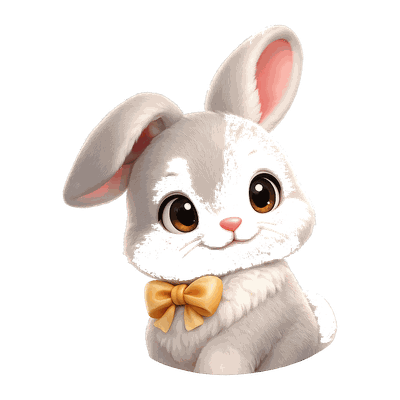
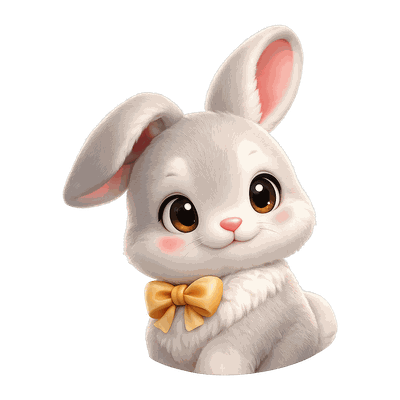
토끼 얼굴에 구멍이 뚫려 있었다 — 8/04부터 지금까지
`public/img/rabbit.png`의 알파가 파먹혀 있었다. 얼굴·볼·가슴의 흰 털 자리가 **투명**이다.
원본 대비 구멍이 42.0% → 54.5%(+12.5%p), 반투명도 0.9% → 3.8%.

원인은 배경 제거기의 `isbg` 판정이다 — `min>225 AND (max-min)<8`, 즉 **거의 흰 무채색**을 배경으로 본다.
그런데 이 토끼는 털이 진짜 회백색 무채색이다. 스크립트 주석이 경고하던 바로 그 경우인데
(양털·소 흰색은 따뜻한 색조라 살아남는다) 토끼는 그 예외에 걸리지 않았다.

**왜 3주 동안 아무도 못 봤나** — 게임의 아바타 배경이 흰 원이라 흰 구멍이 흰 바탕에 얹혀 안 보였다.
어두운 데 얹어야 드러난다. 알파가 있던 8/04 다섯 중 파먹힌 건 토끼 하나뿐이다
(tiger +0.6%p · bear -0.0%p · fox +0.7%p · dokkaebi +1.2%p — 전부 정상).

고친 법: 원본에서 `--bg none`으로 다시 뽑았다(구멍 42.1% · 반투명 1.2% — 원본과 일치).

**그리고 이 자국을 내가 무늬로 오독했다.** 어제 상점 프롬프트를 쓰면서 토끼를
'검은 마스크를 쓴 흑백 토끼'라고 적었는데, 그 검은 부분이 바로 이 구멍이었다.
그대로 뽑았으면 **버그를 아트에 영구히 새길 뻔했다.** 토끼 설명을 실제 그림대로 고쳤고
(회백색 털 + 금색 나비넥타이), 네거티브에 `black face markings, dark mask` 를 넣었다.

diff --git a/scripts/gen-expression-prompts.py b/scripts/gen-expression-prompts.py
@@ -72,14 +72,18 @@ C = [
  dict(id='tiger', kr='호랑이', full=False,
       desc='a playful young Korean tiger cub, warm orange fur with soft black stripes, cream muzzle and belly, round cheeks, one ear flicked back, tiny fangs'),
  dict(id='rabbit', kr='토끼', full=False,
-      # ⚠ 실제 그림은 '흰 토끼'가 아니다 — 얼굴 절반이 검은 무늬이고 노란 나비넥타이를 맸다.
-      desc='a chubby rabbit with a bold BLACK-AND-WHITE patched coat — a large black mask marking '
-           'covering the eyes and most of the face, a white muzzle and a white chest, a black patch on '
-           'the back — tall ears with pink inner ears (one upright, one folded), and a GOLDEN-YELLOW '
+      # ⚠ 2026-08-20: 한때 '검은 마스크를 쓴 토끼'로 잘못 적었다. 그건 무늬가 아니라
+      #    `public/img/rabbit.png`의 **알파가 파먹힌 자국**이었다(어두운 배경에 얹어 보다 오독).
+      #    흰·회색 중성색 털을 배경 제거기가 배경으로 보고 얼굴에 구멍을 뚫어 놨던 것이다.
+      #    같은 날 원본에서 `--bg none`으로 다시 뽑아 고쳤다. 실제 토끼는 아래가 맞다.
+      desc='a chubby soft grey-and-white rabbit, pale dove-grey fur on the head, back and ears with a '
+           'creamy white muzzle, cheeks and chest, tall ears with soft pink inner ears (one upright and '
+           'one gently folded over), a small pink nose, rosy blush cheeks, and a GOLDEN-YELLOW SATIN '
            'BOW TIE at the neck',
-      neg='plain all-white rabbit, no bow tie, both ears upright',
-      hint='The black face mask and the golden bow tie are its identity — never drop them. '
-           'The long upright ear carries the emotion: perked up and quivering when excited, drooping when dejected.'),
+      neg='black face markings, black patches, dark mask around the eyes, missing bow tie, '
+          'pure white rabbit with no grey, both ears fully upright',
+      hint='The golden bow tie is its one accent of colour — never drop it. The long upright ear carries '
+           'the emotion: perked up and quivering when excited, drooping when dejected.'),
  dict(id='bear', kr='곰', full=False,
       # ⚠ 실제 그림엔 소품이 하나도 없다. 스카프를 적으면 없던 스카프가 생긴다.
       desc='a chubby honey-brown bear cub with soft fuzzy fur, small round ears, a broad soft muzzle, '

diff --git a/outputs/production/2026-08-20_dice-alley_shop13-prompts.md b/outputs/production/2026-08-20_dice-alley_shop13-prompts.md
@@ -70,8 +70,8 @@ big glossy expressive eyes with two catchlights, warm soft global illumination w
 the upper left, subtle rim light, no hard outlines, clean readable silhouette at small sizes,
 front three-quarter view, transparent background, high resolution.
 
-The character: a chubby rabbit with a bold BLACK-AND-WHITE patched coat — a large black mask marking covering the eyes and most of the face, a white muzzle and a white chest, a black patch on the back — tall ears with pink inner ears (one upright, one folded), and a GOLDEN-YELLOW BOW TIE at the neck.
-The black face mask and the golden bow tie are its identity — never drop them. The long upright ear carries the emotion: perked up and quivering when excited, drooping when dejected.
+The character: a chubby soft grey-and-white rabbit, pale dove-grey fur on the head, back and ears with a creamy white muzzle, cheeks and chest, tall ears with soft pink inner ears (one upright and one gently folded over), a small pink nose, rosy blush cheeks, and a GOLDEN-YELLOW SATIN BOW TIE at the neck.
+The golden bow tie is its one accent of colour — never drop it. The long upright ear carries the emotion: perked up and quivering when excited, drooping when dejected.
 
 Expression: both arms raised high cheering, a huge joyful open smile, sparkling star-shaped eyes.
 
@@ -79,7 +79,7 @@ Framing: bust framing, head and upper body, centered, the same crop as the refer
 
 Do NOT change the species, horn count, hair, costume, accessories or palette.
 Do NOT use: pixel art, hard black outline, cel shading, flat vector, sticker cutout edge, text,
-watermark, busy background, more than one character, photorealistic human, plain all-white rabbit, no bow tie, both ears upright.
+watermark, busy background, more than one character, photorealistic human, black face markings, black patches, dark mask around the eyes, missing bow tie, pure white rabbit with no grey, both ears fully upright.
 ```
 
 ## `bear_cheer.png` — 곰
@@ -438,8 +438,8 @@ big glossy expressive eyes with two catchlights, warm soft global illumination w
 the upper left, subtle rim light, no hard outlines, clean readable silhouette at small sizes,
 front three-quarter view, transparent background, high resolution.
 
-The character: a chubby rabbit with a bold BLACK-AND-WHITE patched coat — a large black mask marking covering the eyes and most of the face, a white muzzle and a white chest, a black patch on the back — tall ears with pink inner ears (one upright, one folded), and a GOLDEN-YELLOW BOW TIE at the neck.
-The black face mask and the golden bow tie are its identity — never drop them. The long upright ear carries the emotion: perked up and quivering when excited, drooping when dejected.
+The character: a chubby soft grey-and-white rabbit, pale dove-grey fur on the head, back and ears with a creamy white muzzle, cheeks and chest, tall ears with soft pink inner ears (one upright and one gently folded over), a small pink nose, rosy blush cheeks, and a GOLDEN-YELLOW SATIN BOW TIE at the neck.
+The golden bow tie is its one accent of colour — never drop it. The long upright ear carries the emotion: perked up and quivering when excited, drooping when dejected.
 
 Expression: sparkling star-shaped eyes, a triumphant proud grin, chin lifted.
 
@@ -447,7 +447,7 @@ Framing: bust framing, head and upper body, centered, the same crop as the refer
 
 Do NOT change the species, horn count, hair, costume, accessories or palette.
 Do NOT use: pixel art, hard black outline, cel shading, flat vector, sticker cutout edge, text,
-watermark, busy background, more than one character, photorealistic human, plain all-white rabbit, no bow tie, both ears upright.
+watermark, busy background, more than one character, photorealistic human, black face markings, black patches, dark mask around the eyes, missing bow tie, pure white rabbit with no grey, both ears fully upright.
 ```
 
 ## `bear_star.png` — 곰
@@ -806,8 +806,8 @@ big glossy expressive eyes with two catchlights, warm soft global illumination w
 the upper left, subtle rim light, no hard outlines, clean readable silhouette at small sizes,
 front three-quarter view, transparent background, high resolution.
 
-The character: a chubby rabbit with a bold BLACK-AND-WHITE patched coat — a large black mask marking covering the eyes and most of the face, a white muzzle and a white chest, a black patch on the back — tall ears with pink inner ears (one upright, one folded), and a GOLDEN-YELLOW BOW TIE at the neck.
-The black face mask and the golden bow tie are its identity — never drop them. The long upright ear carries the emotion: perked up and quivering when excited, drooping when dejected.
+The character: a chubby soft grey-and-white rabbit, pale dove-grey fur on the head, back and ears with a creamy white muzzle, cheeks and chest, tall ears with soft pink inner ears (one upright and one gently folded over), a small pink nose, rosy blush cheeks, and a GOLDEN-YELLOW SATIN BOW TIE at the neck.
+The golden bow tie is its one accent of colour — never drop it. The long upright ear carries the emotion: perked up and quivering when excited, drooping when dejected.
 
 Expression: a beaming happy smile with closed ^^ curved eyes, joyful and relaxed.
 
@@ -815,7 +815,7 @@ Framing: bust framing, head and upper body, centered, the same crop as the refer
 
 Do NOT change the species, horn count, hair, costume, accessories or palette.
 Do NOT use: pixel art, hard black outline, cel shading, flat vector, sticker cutout edge, text,
-watermark, busy background, more than one character, photorealistic human, plain all-white rabbit, no bow tie, both ears upright.
+watermark, busy background, more than one character, photorealistic human, black face markings, black patches, dark mask around the eyes, missing bow tie, pure white rabbit with no grey, both ears fully upright.
 ```
 
 ## `bear_happy.png` — 곰
@@ -1174,8 +1174,8 @@ big glossy expressive eyes with two catchlights, warm soft global illumination w
 the upper left, subtle rim light, no hard outlines, clean readable silhouette at small sizes,
 front three-quarter view, transparent background, high resolution.
 
-The character: a chubby rabbit with a bold BLACK-AND-WHITE patched coat — a large black mask marking covering the eyes and most of the face, a white muzzle and a white chest, a black patch on the back — tall ears with pink inner ears (one upright, one folded), and a GOLDEN-YELLOW BOW TIE at the neck.
-The black face mask and the golden bow tie are its identity — never drop them. The long upright ear carries the emotion: perked up and quivering when excited, drooping when dejected.
+The character: a chubby soft grey-and-white rabbit, pale dove-grey fur on the head, back and ears with a creamy white muzzle, cheeks and chest, tall ears with soft pink inner ears (one upright and one gently folded over), a small pink nose, rosy blush cheeks, and a GOLDEN-YELLOW SATIN BOW TIE at the neck.
+The golden bow tie is its one accent of colour — never drop it. The long upright ear carries the emotion: perked up and quivering when excited, drooping when dejected.
 
 Expression: a wide open O mouth, big round shocked eyes, eyebrows shot up, startled and leaning back.
 
@@ -1183,7 +1183,7 @@ Framing: bust framing, head and upper body, centered, the same crop as the refer
 
 Do NOT change the species, horn count, hair, costume, accessories or palette.
 Do NOT use: pixel art, hard black outline, cel shading, flat vector, sticker cutout edge, text,
-watermark, busy background, more than one character, photorealistic human, plain all-white rabbit, no bow tie, both ears upright.
+watermark, busy background, more than one character, photorealistic human, black face markings, black patches, dark mask around the eyes, missing bow tie, pure white rabbit with no grey, both ears fully upright.
 ```
 
 ## `bear_surprise.png` — 곰
@@ -1542,8 +1542,8 @@ big glossy expressive eyes with two catchlights, warm soft global illumination w
 the upper left, subtle rim light, no hard outlines, clean readable silhouette at small sizes,
 front three-quarter view, transparent background, high resolution.
 
-The character: a chubby rabbit with a bold BLACK-AND-WHITE patched coat — a large black mask marking covering the eyes and most of the face, a white muzzle and a white chest, a black patch on the back — tall ears with pink inner ears (one upright, one folded), and a GOLDEN-YELLOW BOW TIE at the neck.
-The black face mask and the golden bow tie are its identity — never drop them. The long upright ear carries the emotion: perked up and quivering when excited, drooping when dejected.
+The character: a chubby soft grey-and-white rabbit, pale dove-grey fur on the head, back and ears with a creamy white muzzle, cheeks and chest, tall ears with soft pink inner ears (one upright and one gently folded over), a small pink nose, rosy blush cheeks, and a GOLDEN-YELLOW SATIN BOW TIE at the neck.
+The golden bow tie is its one accent of colour — never drop it. The long upright ear carries the emotion: perked up and quivering when excited, drooping when dejected.
 
 Expression: teary droopy sad eyes, a small frown, shoulders slumped, dejected.
 
@@ -1551,7 +1551,7 @@ Framing: bust framing, head and upper body, centered, the same crop as the refer
 
 Do NOT change the species, horn count, hair, costume, accessories or palette.
 Do NOT use: pixel art, hard black outline, cel shading, flat vector, sticker cutout edge, text,
-watermark, busy background, more than one character, photorealistic human, plain all-white rabbit, no bow tie, both ears upright.
+watermark, busy background, more than one character, photorealistic human, black face markings, black patches, dark mask around the eyes, missing bow tie, pure white rabbit with no grey, both ears fully upright.
 ```
 
 ## `bear_sad.png` — 곰
@@ -1910,8 +1910,8 @@ big glossy expressive eyes with two catchlights, warm soft global illumination w
 the upper left, subtle rim light, no hard outlines, clean readable silhouette at small sizes,
 front three-quarter view, transparent background, high resolution.
 
-The character: a chubby rabbit with a bold BLACK-AND-WHITE patched coat — a large black mask marking covering the eyes and most of the face, a white muzzle and a white chest, a black patch on the back — tall ears with pink inner ears (one upright, one folded), and a GOLDEN-YELLOW BOW TIE at the neck.
-The black face mask and the golden bow tie are its identity — never drop them. The long upright ear carries the emotion: perked up and quivering when excited, drooping when dejected.
+The character: a chubby soft grey-and-white rabbit, pale dove-grey fur on the head, back and ears with a creamy white muzzle, cheeks and chest, tall ears with soft pink inner ears (one upright and one gently folded over), a small pink nose, rosy blush cheeks, and a GOLDEN-YELLOW SATIN BOW TIE at the neck.
+The golden bow tie is its one accent of colour — never drop it. The long upright ear carries the emotion: perked up and quivering when excited, drooping when dejected.
 
 Expression: an angry pouty frown with furrowed brows and a small red anger vein, arms crossed.
 
@@ -1919,7 +1919,7 @@ Framing: bust framing, head and upper body, centered, the same crop as the refer
 
 Do NOT change the species, horn count, hair, costume, accessories or palette.
 Do NOT use: pixel art, hard black outline, cel shading, flat vector, sticker cutout edge, text,
-watermark, busy background, more than one character, photorealistic human, plain all-white rabbit, no bow tie, both ears upright.
+watermark, busy background, more than one character, photorealistic human, black face markings, black patches, dark mask around the eyes, missing bow tie, pure white rabbit with no grey, both ears fully upright.
 ```
 
 ## `bear_angry.png` — 곰
